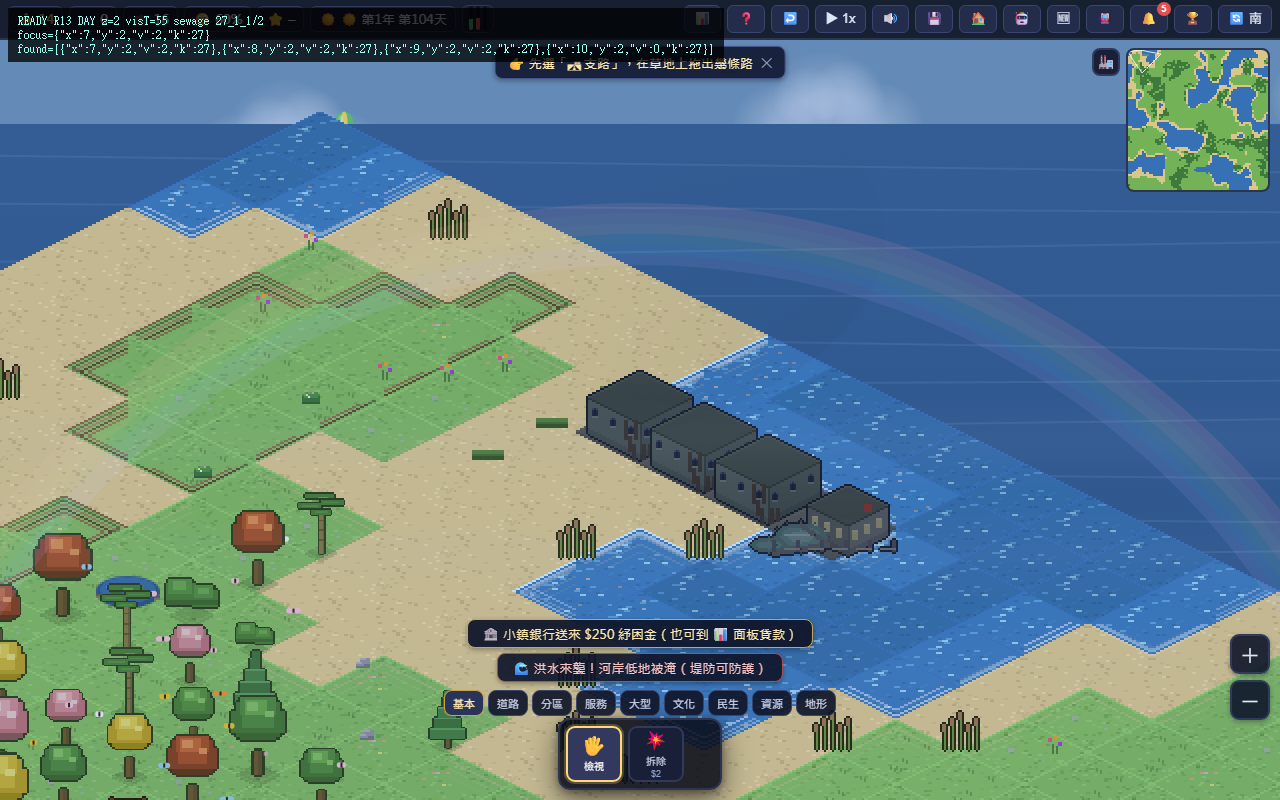
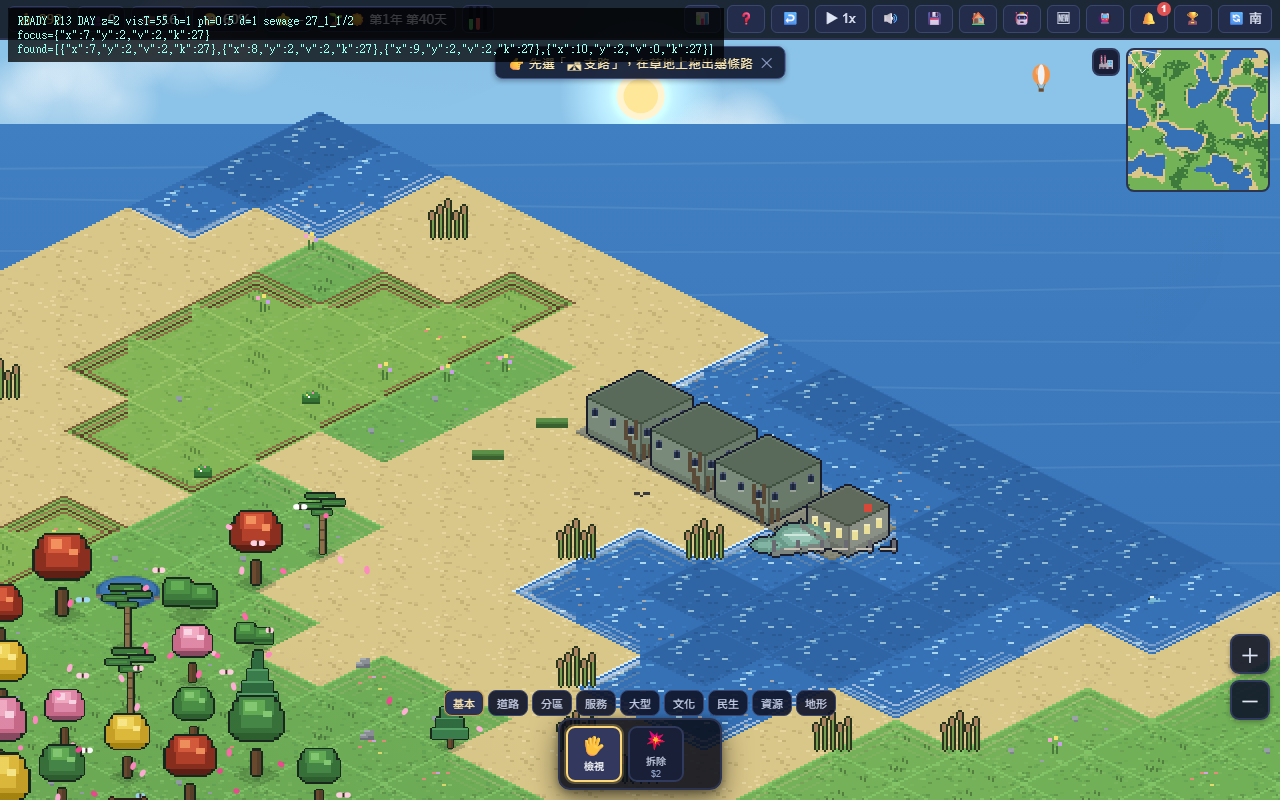
T421 覆核補證：鎖晴日完工樣張與逐輪帳

diff --git a/docs/tools/t421_z2_capture_multi.html b/docs/tools/t421_z2_capture_multi.html
@@ -43,6 +43,11 @@ function run(w){
     const st=d.getElementById('start'); if(st) st.style.display='none';
     w.__noNightCity=true;
     w.GV.newWorldSeeded(20260701+spec.k*17);
+    // Reviewer fix: keep the capture deterministic and genuinely daytime.
+    // The old probe stopped locking visual time after READY, so the live loop
+    // advanced several captures into night/storm despite the HUD saying visT=55.
+    w.GV.setSpeed(0);
+    w.GV.weather(0);
     if(w.GV.setDay) w.GV.setDay(40);
     if(w.GV.setSeason) w.GV.setSeason(0);
     // 錢夠建
@@ -64,6 +69,11 @@ function run(w){
         found.push({x,y,v:t.bld.v|0,k:t.bld.k});
       }
     }
+    // Use the real tick path to finish age=0 placements. GV.tile() is a clone,
+    // so mutating its returned bld would be a false fix and leave scaffolds up.
+    if(found.length) w.GV.step(9);
+    w.GV.setDay(40);
+    w.GV.weather(0);
     if(found.length===0){
       for(let y=0;y<N;y++)for(let x=0;x<N;x++){
         const t=w.GV.tile(x,y);
@@ -75,18 +85,22 @@ function run(w){
     w.GV.lookAt(focus.x, focus.y);
     let n=0;
     const tick=()=>{
+      w.GV.setSpeed(0);
+      w.GV.weather(0);
       w.GV.setVisT(NOON_VIST);
       if(typeof w.draw==='function') w.draw();
-      if(++n<70) w.requestAnimationFrame(tick);
-      else {
+      if(++n===70) {
         w.GV.setVisT(NOON_VIST);
         if(typeof w.draw==='function') w.draw();
-        H.textContent='READY '+ROUND+' DAY z=2 visT='+NOON_VIST+' '+spec.label+'\nfocus='+JSON.stringify(focus)+'\nfound='+JSON.stringify(found.slice(0,8));
+        const dl=w.GV.daylightDbg();
+        H.textContent='READY '+ROUND+' DAY z=2 visT='+NOON_VIST+' b='+dl.b+' ph='+dl.ph+' d='+dl.d+' '+spec.label+'\nfocus='+JSON.stringify(focus)+'\nfound='+JSON.stringify(found.slice(0,8));
         H.dataset.ready='1';
         H.dataset.round=ROUND;
         window.__t421Z2Ready=true;
         window.__t421Z2Round=ROUND;
       }
+      // Keep the lock alive until the external screenshot is actually taken.
+      w.requestAnimationFrame(tick);
     };
     w.requestAnimationFrame(tick);
   }catch(e){

diff --git a/docs/tasks/T421-Grok美術自治第三特許.md b/docs/tasks/T421-Grok美術自治第三特許.md
@@ -443,7 +443,7 @@ STOP: AWAIT_REVIEW
 | 4 | 真實瀏覽器 art_diff：16_1_1 覆蓋 #908a7a 5px（原色≤16px） | **撤回 R05 16_1_1/2 全部落筆**（決定不動它；T420 先例） |
 | 5 | G5 幾何被稀釋為「四參數＋正尺寸」 | 恢復多尺寸畫布邊界（72×112／88×120／136×150） |
 | 6 | R05–R15 缺白天 z2 樣張 | 補 R05…R15-z2-ingame-day.png（visT=55） |
-| 7 | 缺獨立突變證明 | 見 	421-shots/R05-R15-mutation-G5.md（4 案 exit1 ＋ weak/strong 隔離表） |
+| 7 | 缺獨立突變證明 | 見 `docs/tasks/t421-shots/R05-R15-mutation-G5.md`（4 案 exit1 ＋ weak/strong 隔離表） |
 
 ### 輪次總表
 
@@ -490,6 +490,28 @@ STOP: AWAIT_REVIEW
 - R05–R15：docs/tasks/t421-shots/R05-z2-ingame-day.png … R15-z2-ingame-day.png
 - 突變證明：docs/tasks/t421-shots/R05-R15-mutation-G5.md
 
+### GPT 非作者覆核補證（2026-08-08）
+
+原 R05–R15 探針在顯示 READY 後停止鎖 `visT`，且未鎖天氣；多張實圖已跑到夜景，R11 更截在閃電白屏。第一次修正日光後又發現 `GV.tile()` 回傳 clone，直接改 `age` 不會完成真建築，樣張仍只拍到鷹架。覆核方因此修正同一個證據工具：每幀鎖 `setSpeed(0)`／`weather(0)`／`setVisT(55)`，HUD 回讀 `daylightDbg()`；放置後用真實 `GV.step(9)` 完工，再重拍全部 R05–R15。這是覆核證據修復，不改 runtime 美術落筆、玩法、亂數流或 sprite metadata。
+
+重拍圖均在 HUD 顯示 `READY Rxx DAY z=2 visT=55 b=1 ph=0.5 d=1`，且畫面是 `age>=9` 完工 sprite。R05 為已撤回鍵，只作「不動它」家族對照；其餘逐輪肉眼自答如下：
+
+| 輪 | 鍵 | replay 決定性帳（兩鍵合計） | 白名單／CRC | z2 不對照自答 |
+|---|---|---:|---|---|
+| R05 | 16_1_1/2 | 0 rect／0 px | 撤回，CRC 不變 | N/A：不動它 |
+| R06 | 16_1_3/4 | 12 rect／152 px | 僅兩鍵 img CRC 變；night／外鍵 0 | **能**：墓園正面豎構件與簷線可辨 |
+| R07 | 17_1_1/2 | 12／152 | 同上 | **能**：車站門框／長簷在立面可辨 |
+| R08 | 17_1_3/4 | 12／132 | 同上 | **能**：異構車站門框與底線可辨 |
+| R09 | 21_1_1/2 | 12／136 | 同上 | **能**：輕軌站豎構件與上下橫線可辨 |
+| R10 | 21_1_3/4 | 12／152 | 同上 | **能**：異構輕軌站立面層次可辨 |
+| R11 | 18_1_1/2 | 12／224 | 同上 | **能**：港口倉房／船側豎構件可辨，無閃電遮罩 |
+| R12 | 18_1_3/4 | 12／188 | 同上 | **能**：異構港口立面與船側構件可辨 |
+| R13 | 27_1_1/2 | 12／208 | 同上 | **能**：污水廠門框／設備豎構件可辨 |
+| R14 | 20_1_1/2 | 12／232 | 同上 | **能**：停車場亭體／入口構件可辨 |
+| R15 | 29_1_3/4 | 12／220 | 同上 | **能**：回收棚桶區與支腳層次可辨 |
+
+真實瀏覽器 `art_diff` 由覆核方另跑：atlas `1374 entries / 116 families / 37 skipped`、canvas `1756 / 18,484,199 px`、metadata 0 差、img CRC 恰 28 白名單鍵、night CRC 0、白名單外 0；28 鍵皆未覆蓋任何既有 `<=16 px` 細節色。`__t421Ink=172 rect／2,194 px` 與逐輪帳相加恰等。
+
 ### 不動／後排
 
 - **R05 16_1_1/2**（本退修撤回）
@@ -498,5 +520,4 @@ STOP: AWAIT_REVIEW
 - 60_1_0 仍碎燈風險後排
 
 不自合、不 publish。版號跟合併序。
-
 
